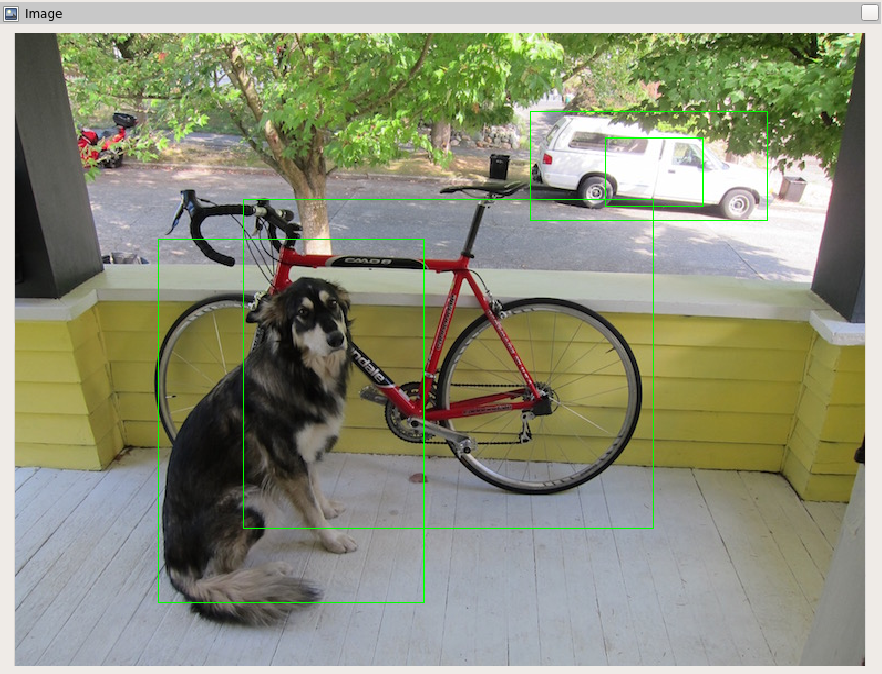
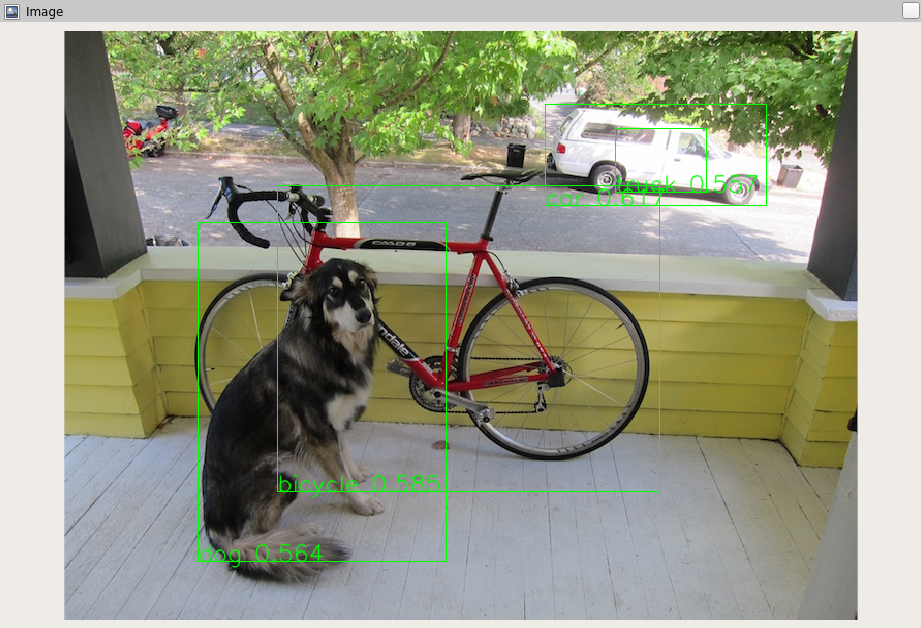
Label boxes

diff --git a/detection_visualizer/__init__.py b/detection_visualizer/__init__.py
@@ -54,13 +54,13 @@ class DetectionVisualizerNode(Node):
 
         # Draw boxes on image
         for detection in detections_msg.detections:
-            max_class = -1
+            max_class = None
             max_score = 0.0
             for hypothesis in detection.results:
                 if hypothesis.score > max_score:
                     max_score = hypothesis.score
                     max_class = hypothesis.id
-            if max_class < 0:
+            if max_class is None:
                 print("Failed to find class with highest score", file=sys.stderr)
                 return
 
@@ -74,6 +74,11 @@ class DetectionVisualizerNode(Node):
             color = (0, 255, 0)
             thickness = 1
             cv2.rectangle(cv_image, min_pt, max_pt, color, thickness)
+
+            label = '{} {:.3f}'.format(max_class, max_score)
+            pos = (min_pt[0], max_pt[1])
+            font = cv2.FONT_HERSHEY_SIMPLEX
+            cv2.putText(cv_image, label, pos, font, 0.75, color, 1, cv2.LINE_AA)
 
         self._image_pub.publish(self._bridge.cv2_to_imgmsg(cv_image, encoding="bgr8"))
 
